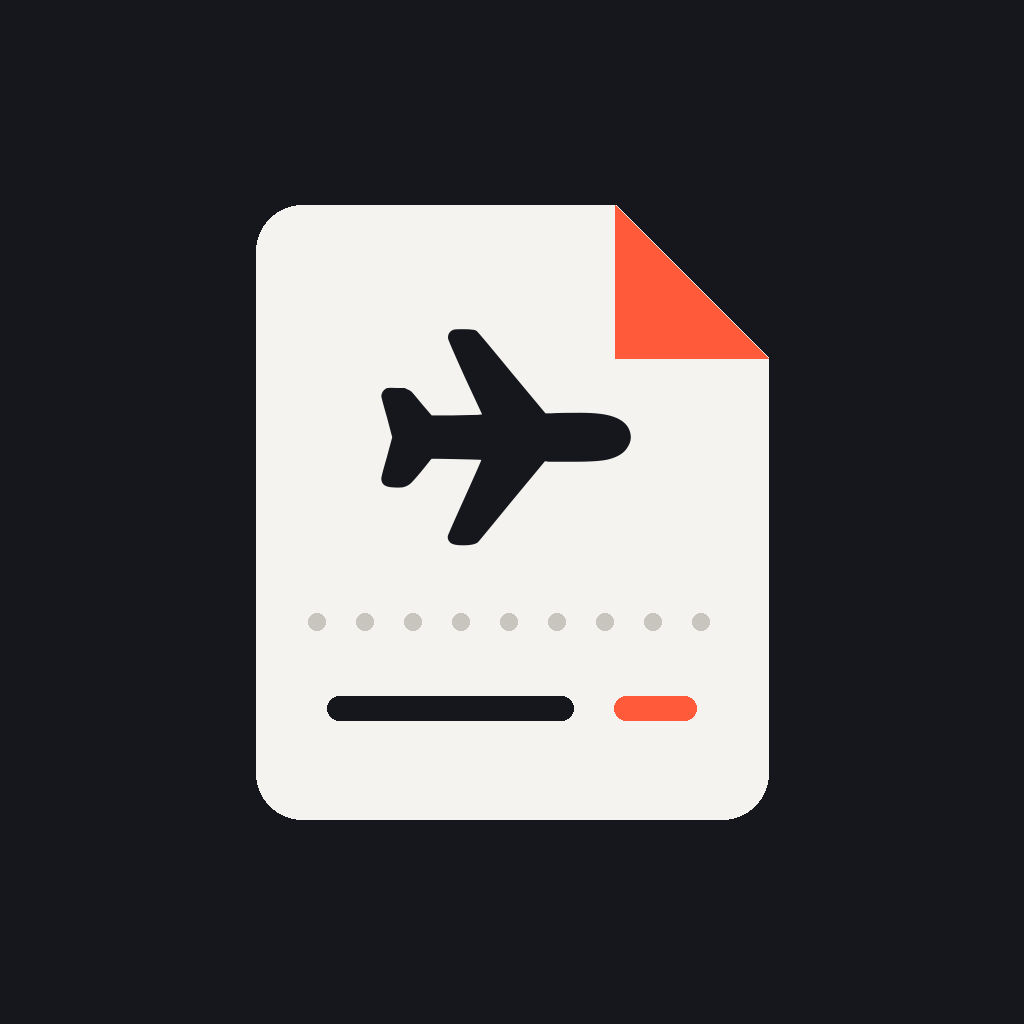
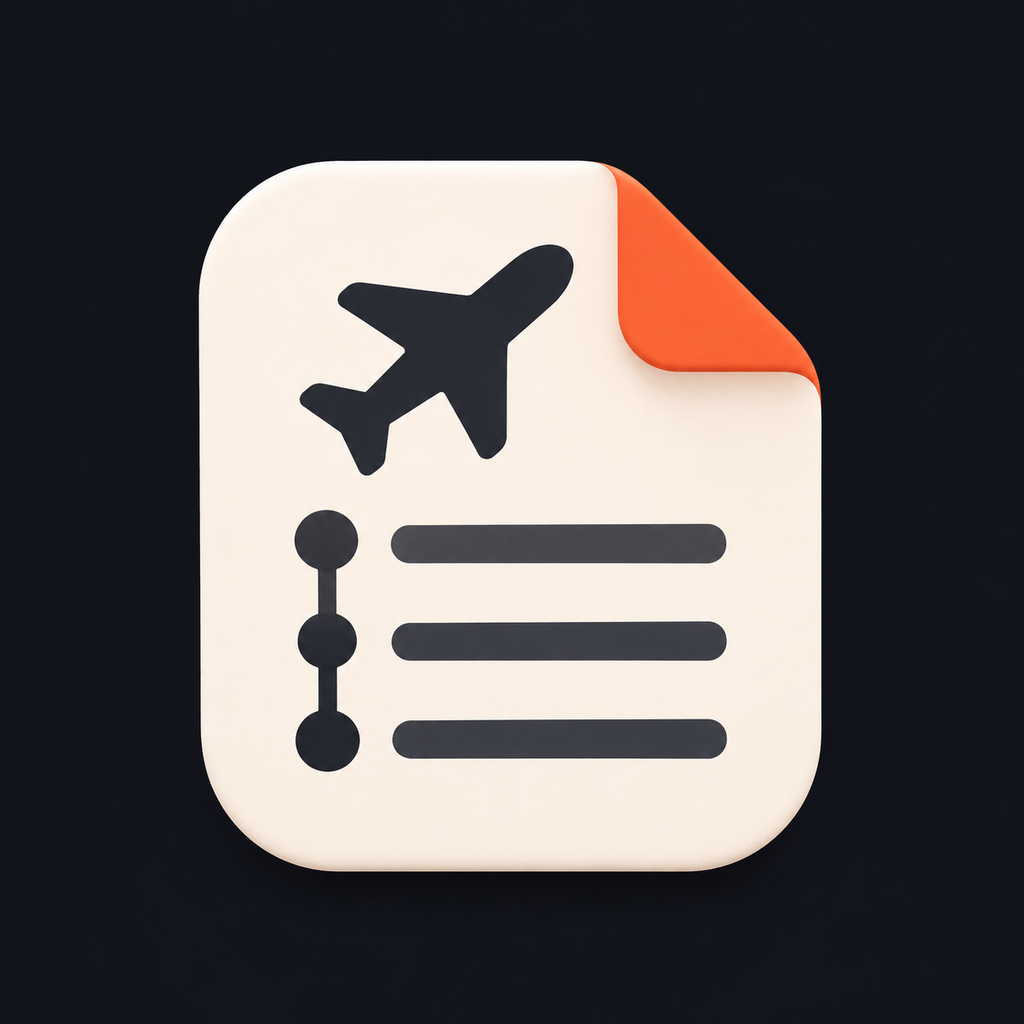
新アイコン・起動画面、お試し旅行に写真（パリ・京都・ロンドン）
Claude-Session: https://claude.ai/code/session_01447UnxiL2K138aGGFaAL5v

Changed region(s): [[0.1875, 0.1562, 0.8125, 0.875]]

diff --git a/App.tsx b/App.tsx
@@ -106,6 +106,14 @@ function itineraryText(trip: Trip) {
   return lines.join('\n');
 }
 
+/** アプリに入れてある写真（お試し旅行の表紙） */
+const BUNDLED: Record<string, any> = {
+  'asset:paris': require('./assets/covers/paris.jpg'),
+  'asset:kyoto': require('./assets/covers/kyoto.jpg'),
+  'asset:london': require('./assets/covers/london.jpg'),
+};
+const imgSrc = (u: string) => BUNDLED[u] ?? { uri: u };
+
 type IconName = React.ComponentProps<typeof Ionicons>['name'];
 const Icon = ({ name, size = 18, color = C.ink }: { name: string; size?: number; color?: string }) => (
   <Ionicons name={name as IconName} size={size} color={color} />
@@ -122,7 +130,7 @@ const TypeBadge = ({ type, size = 38 }: { type: BookingType; size?: number }) =>
 /** 旅行の表紙（色＋頭文字） */
 const Cover = ({ trip, size = 52 }: { trip: { name: string; emoji: string; cover?: string }; size?: number }) =>
   trip.cover ? (
-    <Image source={{ uri: trip.cover }} style={{ width: size, height: size, borderRadius: size * 0.3, backgroundColor: C.chip }} />
+    <Image source={imgSrc(trip.cover)} style={{ width: size, height: size, borderRadius: size * 0.3, backgroundColor: C.chip }} />
   ) : (
     <View style={{ width: size, height: size, borderRadius: size * 0.3, backgroundColor: coverOf(trip), alignItems: 'center', justifyContent: 'center' }}>
       <Text style={{ color: '#fff', fontWeight: '900', fontSize: size * 0.34, letterSpacing: 0.5 }}>{monogram(trip.name)}</Text>
@@ -348,7 +356,7 @@ function Main() {
         onDone={(s, sample) => {
           changeSettings({ ...s, onboarded: true });
           askPermission();
-          if (sample) updateTrips((all) => [sampleTrip(s), pastSample(s), ...all]);
+          if (sample) updateTrips((all) => [sampleTrip(s), pastSample(s), londonSample(s), ...all]);
         }}
       />
     </View>
@@ -502,7 +510,7 @@ function Memories({ trips, onOpen }: { trips: Trip[]; onOpen: (id: string) => vo
                 return (
                   <Pressable key={tr.id} onPress={() => onOpen(tr.id)} style={({ pressed }) => [s.memCard, pressed && { opacity: 0.9 }]}>
                     {img ? (
-                      <Image source={{ uri: img }} style={StyleSheet.absoluteFill} />
+                      <Image source={imgSrc(img)} style={[StyleSheet.absoluteFill, { width: "100%", height: "100%" }]} resizeMode="cover" />
                     ) : (
                       <View style={[StyleSheet.absoluteFill, { backgroundColor: coverOf(tr), alignItems: 'center', justifyContent: 'center' }]}>
                         <Text style={{ color: 'rgba(255,255,255,0.35)', fontSize: 64, fontWeight: '900' }}>{monogram(tr.name)}</Text>
@@ -785,7 +793,7 @@ function JournalSheet({
         <View style={{ flexDirection: 'row', flexWrap: 'wrap', gap: 8 }}>
           {photos.map((p) => (
             <Pressable key={p} onLongPress={() => setPhotos(photos.filter((x) => x !== p))}>
-              <Image source={{ uri: p }} style={s.memThumb} />
+              <Image source={imgSrc(p)} style={s.memThumb} />
             </Pressable>
           ))}
           <Pressable
@@ -884,7 +892,7 @@ function JournalBlock({ entry, onPress }: { entry?: { text?: string; photos?: st
           {!!entry?.photos?.length && (
             <ScrollView horizontal showsHorizontalScrollIndicator={false} contentContainerStyle={{ gap: 6 }}>
               {entry.photos.map((p) => (
-                <Image key={p} source={{ uri: p }} style={s.journalPhoto} />
+                <Image key={p} source={imgSrc(p)} style={s.journalPhoto} />
               ))}
             </ScrollView>
           )}
@@ -1625,7 +1633,7 @@ function AddBookingSheet({
           <View style={{ flexDirection: 'row', flexWrap: 'wrap', gap: 8 }}>
             {(b.photos ?? []).map((p) => (
               <Pressable key={p} onLongPress={() => set({ photos: b.photos!.filter((x) => x !== p) })}>
-                <Image source={{ uri: p }} style={s.thumb} />
+                <Image source={imgSrc(p)} style={s.thumb} />
               </Pressable>
             ))}
             <Pressable style={[s.thumb, s.thumbAdd]} onPress={addPhoto}>
@@ -1834,7 +1842,7 @@ function BookingDetail({
           <View style={{ flexDirection: 'row', flexWrap: 'wrap', gap: 8, marginTop: 12 }}>
             {b.photos.map((p) => (
               <Pressable key={p} onPress={() => setZoom(p)}>
-                <Image source={{ uri: p }} style={s.photoBig} />
+                <Image source={imgSrc(p)} style={s.photoBig} />
               </Pressable>
             ))}
           </View>
@@ -1852,7 +1860,7 @@ function BookingDetail({
       </ScrollView>
       <Modal visible={!!zoom} transparent onRequestClose={() => setZoom(null)}>
         <Pressable style={{ flex: 1, backgroundColor: 'rgba(0,0,0,0.92)', justifyContent: 'center' }} onPress={() => setZoom(null)}>
-          {zoom && <Image source={{ uri: zoom }} style={{ width: '100%', height: '85%' }} resizeMode="contain" />}
+          {zoom && <Image source={imgSrc(zoom)} style={{ width: '100%', height: '85%' }} resizeMode="contain" />}
         </Pressable>
       </Modal>
     </Sheet>
@@ -1917,9 +1925,7 @@ function WelcomeSheet({ visible, settings, onDone }: { visible: boolean; setting
   return (
     <Modal visible={visible} animationType="fade">
       <ScrollView contentContainerStyle={{ flexGrow: 1, justifyContent: 'center', padding: 28, backgroundColor: C.bg }}>
-        <View style={s.logoBig}>
-          <Icon name="airplane" size={40} color="#fff" />
-        </View>
+        <Image source={require('./assets/icon.png')} style={[s.logoBig, { overflow: 'hidden' }]} />
         <Text style={[s.appTitle, { textAlign: 'center', fontSize: 34, marginTop: 18 }]}>{t('appName')}</Text>
         <Text style={[s.hint, { textAlign: 'center', fontSize: 15, lineHeight: 23, marginTop: 10 }]}>{t('welcomeText')}</Text>
         <View style={{ marginTop: 20 }}>
@@ -1944,6 +1950,7 @@ function pastSample(st: Settings): Trip {
     id: uid(),
     name: ja ? '京都 週末旅' : 'Kyoto weekend',
     emoji: '#0B7285',
+    cover: 'asset:kyoto',
     members: [{ id: 'me', name: st.myName || t('me') }],
     bookings: [
       { id: uid(), type: 'train', title: ja ? 'のぞみ 21号' : 'Nozomi 21', start: a, startTime: '08:00', endTime: '10:15', from: ja ? '東京' : 'Tokyo', to: ja ? '京都' : 'Kyoto', price: 14170, currency: 'JPY', createdAt: 1 },
@@ -1957,6 +1964,27 @@ function pastSample(st: Settings): Trip {
     createdAt: Date.now() - 1,
   };
 }
+function londonSample(st: Settings): Trip {
+  const ja = st.lang === 'ja';
+  const a = shiftDate(todayStr(), -95);
+  return {
+    id: uid(),
+    name: ja ? 'ロンドン 3日間' : 'London, 3 days',
+    emoji: '#D6336C',
+    cover: 'asset:london',
+    members: [{ id: 'me', name: st.myName || t('me') }],
+    bookings: [
+      { id: uid(), type: 'flight', title: 'NH 211', start: a, startTime: '11:40', endTime: '16:35', from: 'HND', to: 'LHR', code: '5Y8K2M', seat: '34K', price: 128400, currency: 'JPY', createdAt: 1 },
+      { id: uid(), type: 'hotel', title: 'The Hoxton, Holborn', start: a, startTime: '15:00', end: shiftDate(a, 3), endTime: '12:00', from: '199-206 High Holborn, London', price: 540, currency: 'GBP', createdAt: 2 },
+      { id: uid(), type: 'plan', title: ja ? '大英博物館' : 'British Museum', start: shiftDate(a, 1), startTime: '10:00', endTime: '13:00', from: 'Great Russell St, London', createdAt: 3 },
+    ],
+    checklist: [],
+    journal: {
+      [shiftDate(a, 1)]: { text: ja ? '雨上がりの街がきれいだった。パブでフィッシュアンドチップス。' : 'The streets after the rain were lovely. Fish and chips at a pub.' },
+    },
+    createdAt: Date.now() - 2,
+  };
+}
 function sampleTrip(st: Settings): Trip {
   const base = shiftDate(todayStr(), 20);
   const d = (n: number) => shiftDate(base, n);
@@ -1965,6 +1993,7 @@ function sampleTrip(st: Settings): Trip {
     id: uid(),
     name: ja ? 'パリ 3泊' : 'Paris, 3 nights',
     emoji: '#FF5B3A',
+    cover: 'asset:paris',
     members: [
       { id: 'me', name: st.myName || t('me') },
       { id: 'm2', name: ja ? 'ゆき' : 'Yuki' },
